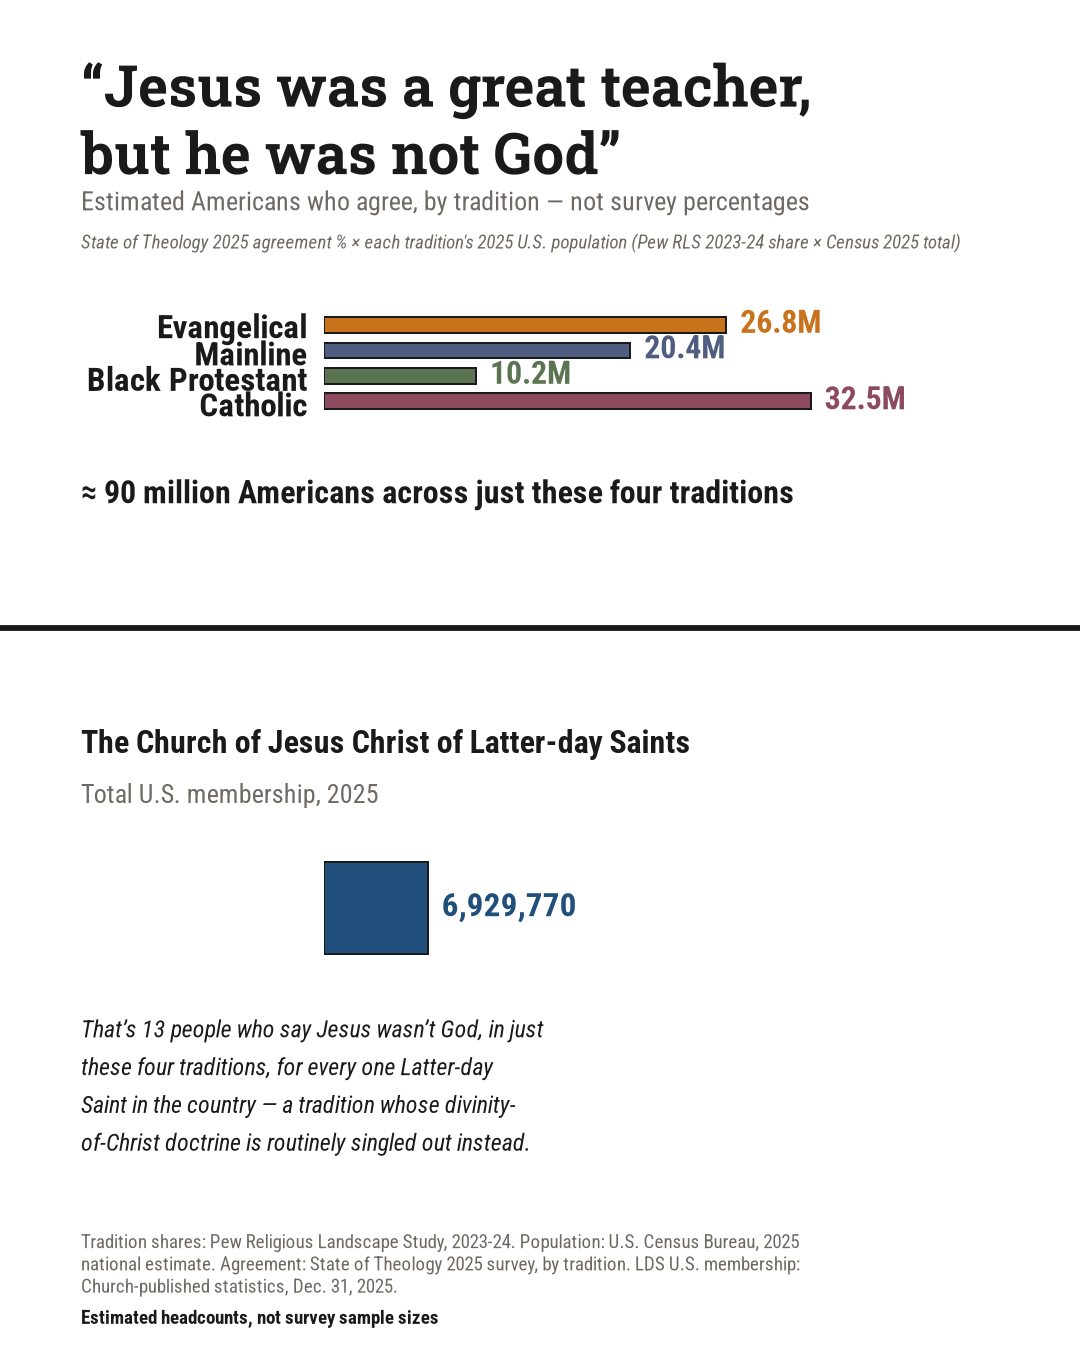
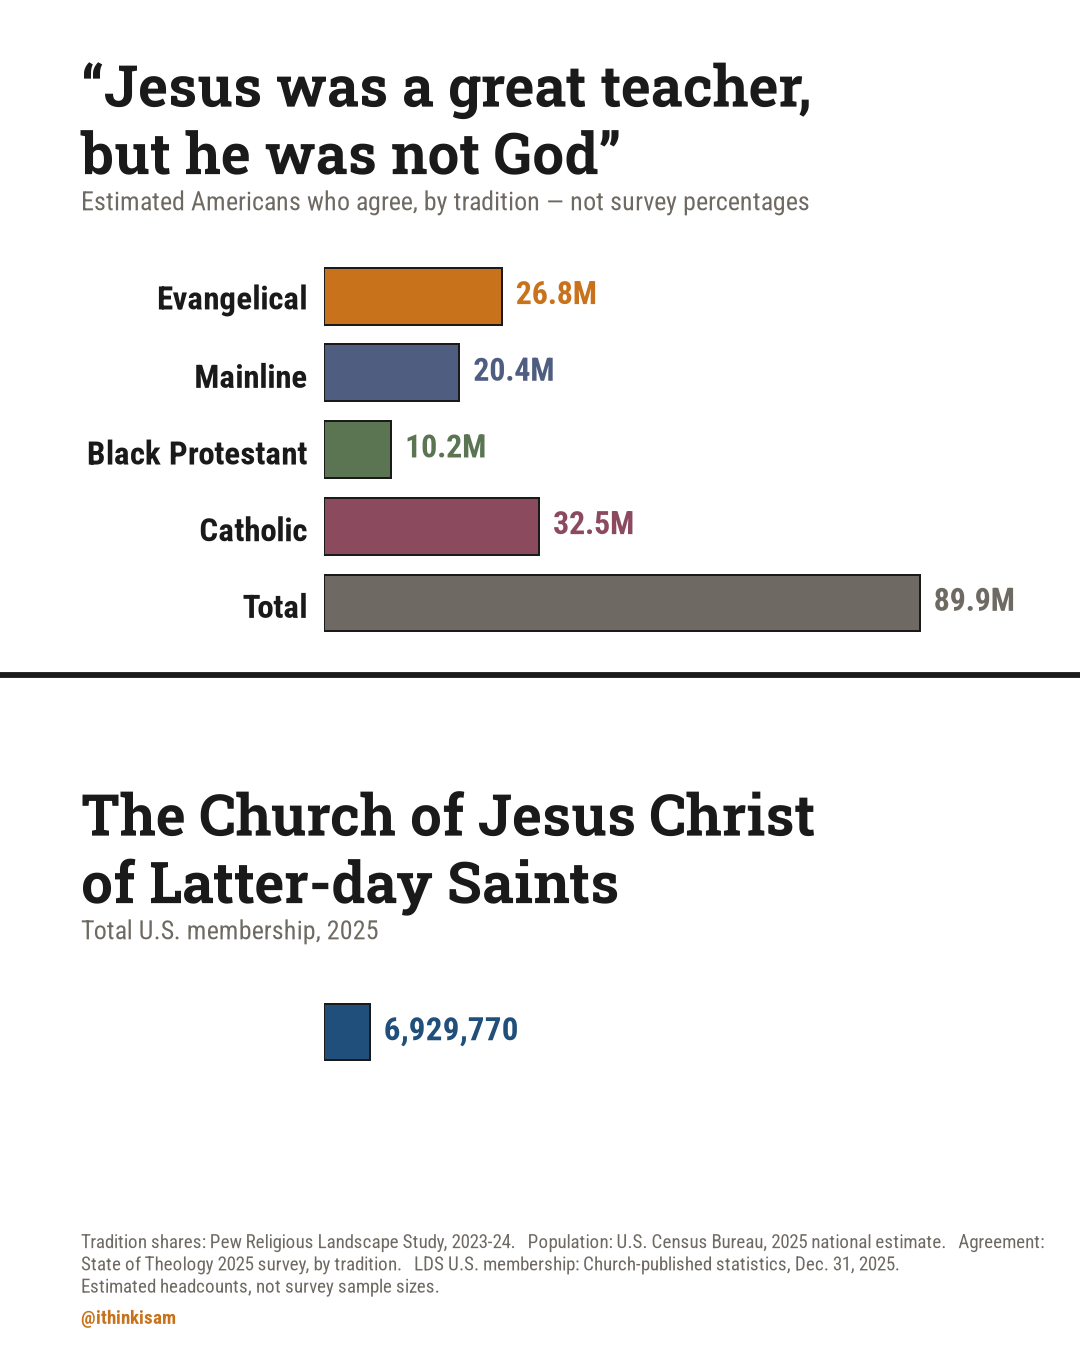
Revise post3 slide: total bar, matched bar thickness, equal-weight LDS title
- Added a "Total" bar (aggregate, sinks to bottom per house style) to the
  chart instead of a separate "~90 million" text line.
- Top chart and the LDS contrast bar now share the exact same per-bar
  slot height and bar-height fraction, so bar thickness reads as
  literally identical above and below the divider -- only length differs.
- "The Church of Jesus Christ of Latter-day Saints" now renders at the
  same Roboto Slab Bold 34pt as the survey-statement title, signaling
  it's a different metric (membership count), not a fifth tradition
  answering the same survey question.
- Removed the "13 people for every Latter-day Saint" note.
- Caption now spreads across more of the canvas width and adds the
  @ithinkisam handle per site convention.

diff --git a/scripts/social-graphics/social media posts/post3-membership-scale/post3_membership_scale.py b/scripts/social-graphics/social media posts/post3-membership-scale/post3_membership_scale.py
@@ -53,7 +53,6 @@ via chart_style.draw_caption_bottom.
 from __future__ import annotations
 
 import sys
-import textwrap
 from pathlib import Path
 
 import matplotlib.font_manager as fm
@@ -106,13 +105,22 @@ COLOR = {
     "Black Protestant": MOSS,
     "Catholic": WINE,
 }
-ORDER = ["Catholic", "Black Protestant", "Mainline", "Evangelical"]  # bottom to top
+GROUPS = ["Catholic", "Black Protestant", "Mainline", "Evangelical"]
 
 LDS_US_MEMBERS = 6_929_770
 
-headcount = {g: POP_2025 * TRADITION_SHARE[g] * AGREE_PCT[g] for g in ORDER}
+headcount = {g: POP_2025 * TRADITION_SHARE[g] * AGREE_PCT[g] for g in GROUPS}
 total = sum(headcount.values())
 ratio = total / LDS_US_MEMBERS
+
+# "Total" is a summed aggregate, not a fifth tradition -- it sinks to the
+# bottom of the chart per the site-wide row-order rule (an aggregate row
+# always sits below every substantive row; see chart_style.sort_groups /
+# BRANDING_AND_DESIGN.md's "Charts" section) and renders in MUTED, the same
+# neutral non-identity color that rule uses for aggregate rows.
+headcount["Total"] = total
+COLOR["Total"] = MUTED
+ORDER = ["Total", *GROUPS]  # bottom to top
 
 
 def fmt_millions(n: float) -> str:
@@ -146,18 +154,19 @@ LEFT, RIGHT = 0.075, 0.94
 caption_top = draw_caption_bottom(
     fig, fonts,
     [
-        "Tradition shares: Pew Religious Landscape Study, 2023-24. Population: U.S. "
-        "Census Bureau, 2025 national estimate. Agreement: State of Theology 2025 survey, "
-        "by tradition. LDS U.S. membership: Church-published statistics, Dec. 31, 2025.",
+        "Tradition shares: Pew Religious Landscape Study, 2023-24.   Population: U.S. Census Bureau, 2025 national estimate.   "
+        "Agreement: State of Theology 2025 survey, by tradition.   LDS U.S. membership: Church-published statistics, Dec. 31, 2025.",
+        "Estimated headcounts, not survey sample sizes.",
     ],
     left=LEFT,
-    handle="Estimated headcounts, not survey sample sizes",
+    wrap_width=132,
     fontsize=11.5,
     color=MUTED,
-    handle_color=INK,
+    handle="@ithinkisam",
+    handle_color=AMBER,
 )
 
-# ---- Title + subtitle -------------------------------------------------
+# ---- Title + subtitle (top half) ---------------------------------------
 title_top = 0.965
 title_lines = ["“Jesus was a great teacher,", "but he was not God”"]
 line_step = 0.050
@@ -168,29 +177,52 @@ for i, line in enumerate(title_lines):
 sub_y = title_top - len(title_lines) * line_step - 0.006
 fig.text(LEFT, sub_y, "Estimated Americans who agree, by tradition — not survey percentages",
           fontproperties=fonts["regular"], fontsize=15.5, color=MUTED, ha="left", va="top")
-sub2_y = sub_y - 0.032
-fig.text(LEFT, sub2_y,
-          "State of Theology 2025 agreement % × each tradition's 2025 U.S. population (Pew RLS 2023-24 share × Census 2025 total)",
-          fontproperties=fonts["italic"], fontsize=11.5, color=MUTED, ha="left", va="top")
 
 # ---- Divider: splits the canvas into a top and bottom half ------------
-DIVIDER_Y = 0.535
+DIVIDER_Y = 0.500
 fig.add_artist(plt.Line2D([0.0, 1.0], [DIVIDER_Y, DIVIDER_Y], color=INK, linewidth=3.5,
                            transform=fig.transFigure, zorder=5))
 
-# ---- Top half: bar chart, 4 traditions ---------------------------------
+# ---- Bottom half title, styled to match the top title exactly ---------
+# Deliberately the SAME size/weight as the survey-statement title above --
+# this number isn't a fifth tradition answering the same survey question,
+# it's a different metric (the Church's own reported membership count), and
+# giving it equal visual weight (not a smaller subordinate label) is what
+# signals that to the reader.
+bottom_title_top = DIVIDER_Y - 0.075
+bottom_title_lines = ["The Church of Jesus Christ", "of Latter-day Saints"]
+for i, line in enumerate(bottom_title_lines):
+    fig.text(LEFT, bottom_title_top - i * line_step, line, fontproperties=fonts["title"],
+              fontsize=34, color=INK, ha="left", va="top")
+bottom_sub_y = bottom_title_top - len(bottom_title_lines) * line_step - 0.006
+fig.text(LEFT, bottom_sub_y, "Total U.S. membership, 2025",
+          fontproperties=fonts["regular"], fontsize=15.5, color=MUTED, ha="left", va="top")
+
+# ---- Bar geometry: top chart (5 bars: Total + 4 traditions) and the LDS
+# contrast bar (1 bar) share the SAME per-bar slot height in figure-fraction
+# units, so a bar reads as literally the same size/thickness whether it's
+# above or below the divider -- only its length differs, which is the only
+# thing that should differ. Both axes use explicit ylim (-0.5, n-0.5) with
+# zero margins so a "slot" is exactly 1 data unit tall, in both charts.
 CHART_LEFT = 0.30
-chart_top = sub2_y - 0.055
-chart_bottom = DIVIDER_Y + 0.155
-ax = fig.add_axes([CHART_LEFT, chart_bottom, RIGHT - CHART_LEFT, chart_top - chart_bottom])
+BAR_HEIGHT_FRAC = 0.74  # thicker than the previous 0.62
+N_TOP = len(ORDER)  # Total + 4 traditions
+
+# Available band for the top chart: from just under its subtitle down to
+# just above the divider (with a small gap).
+top_band_top = sub_y - 0.050
+top_band_bottom = DIVIDER_Y + 0.025
+slot_height = (top_band_top - top_band_bottom) / N_TOP
+
+ax = fig.add_axes([CHART_LEFT, top_band_bottom, RIGHT - CHART_LEFT, top_band_top - top_band_bottom])
 ax.set_facecolor(PAPER)
 
-xmax = max(headcount.values())
-xlim_top = xmax * 1.42
-ax.barh(ORDER, [headcount[g] for g in ORDER], height=0.62,
+xlim_top = total * 1.16  # Total is now the longest bar -- headroom for its own label
+ax.barh(ORDER, [headcount[g] for g in ORDER], height=BAR_HEIGHT_FRAC,
          color=[COLOR[g] for g in ORDER], edgecolor=INK, linewidth=1.2, zorder=3)
+ax.set_ylim(-0.5, N_TOP - 0.5)
+ax.margins(y=0)
 ax.set_xlim(0, xlim_top)
-ax.margins(y=0.10)
 ax.set_xticks([])
 for spine in ax.spines.values():
     spine.set_visible(False)
@@ -206,23 +238,16 @@ for g in ORDER:
     ax.text(v + xlim_top * 0.02, g, fmt_millions(v),
              va="center", ha="left", color=COLOR[g], fontproperties=fonts["bold"], fontsize=19)
 
-total_y = chart_bottom - 0.045
-fig.text(LEFT, total_y,
-          f"≈ {total/1_000_000:,.0f} million Americans across just these four traditions",
-          fontproperties=fonts["bold"], fontsize=19, color=INK, ha="left", va="top")
-
-# ---- Bottom half: LDS contrast bar, same x-scale as the chart above ----
-label_y = DIVIDER_Y - 0.075
-fig.text(LEFT, label_y, "The Church of Jesus Christ of Latter-day Saints", fontproperties=fonts["bold"],
-          fontsize=19, color=INK, ha="left", va="top")
-fig.text(LEFT, label_y - 0.040, "Total U.S. membership, 2025", fontproperties=fonts["regular"],
-          fontsize=15.5, color=MUTED, ha="left", va="top")
-
-ax2_top = label_y - 0.095
-ax2_bottom = ax2_top - 0.075
-ax2 = fig.add_axes([CHART_LEFT, ax2_bottom, RIGHT - CHART_LEFT, ax2_top - ax2_bottom])
+# ---- LDS contrast bar: same x-scale AND same per-bar slot height as the
+# chart above, so the size gap reads purely from bar length. ----
+ax2_top = bottom_sub_y - 0.055
+ax2_height = slot_height  # identical slot height to one bar's worth above the divider
+ax2_bottom = ax2_top - ax2_height
+ax2 = fig.add_axes([CHART_LEFT, ax2_bottom, RIGHT - CHART_LEFT, ax2_height])
 ax2.set_facecolor(PAPER)
-ax2.barh([""], [LDS_US_MEMBERS], height=0.62, color=ACCENT, edgecolor=INK, linewidth=1.2, zorder=3)
+ax2.barh([""], [LDS_US_MEMBERS], height=BAR_HEIGHT_FRAC, color=ACCENT, edgecolor=INK, linewidth=1.2, zorder=3)
+ax2.set_ylim(-0.5, 0.5)
+ax2.margins(y=0)
 ax2.set_xlim(0, xlim_top)  # same scale as the chart above -- the point is the size gap
 ax2.set_xticks([])
 ax2.set_yticks([])
@@ -230,15 +255,6 @@ for spine in ax2.spines.values():
     spine.set_visible(False)
 ax2.text(LDS_US_MEMBERS + xlim_top * 0.02, 0, f"{LDS_US_MEMBERS:,}", va="center", ha="left",
           color=ACCENT, fontproperties=fonts["bold"], fontsize=20)
-
-note_y = ax2_bottom - 0.045
-note = (f"That’s {ratio:,.0f} people who say Jesus wasn’t God, in just these four "
-        f"traditions, for every one Latter-day Saint in the country — a tradition "
-        f"whose divinity-of-Christ doctrine is routinely singled out instead.")
-wrapped = textwrap.wrap(note, width=52)
-for i, line in enumerate(wrapped):
-    fig.text(LEFT, note_y - i * 0.028, line, fontproperties=fonts["italic"], fontsize=14.5,
-              color=INK, ha="left", va="top")
 
 OUT_PATH = OUT / "1_teacher_headcount.png"
 fig.savefig(OUT_PATH, facecolor=PAPER, dpi=DPI)
